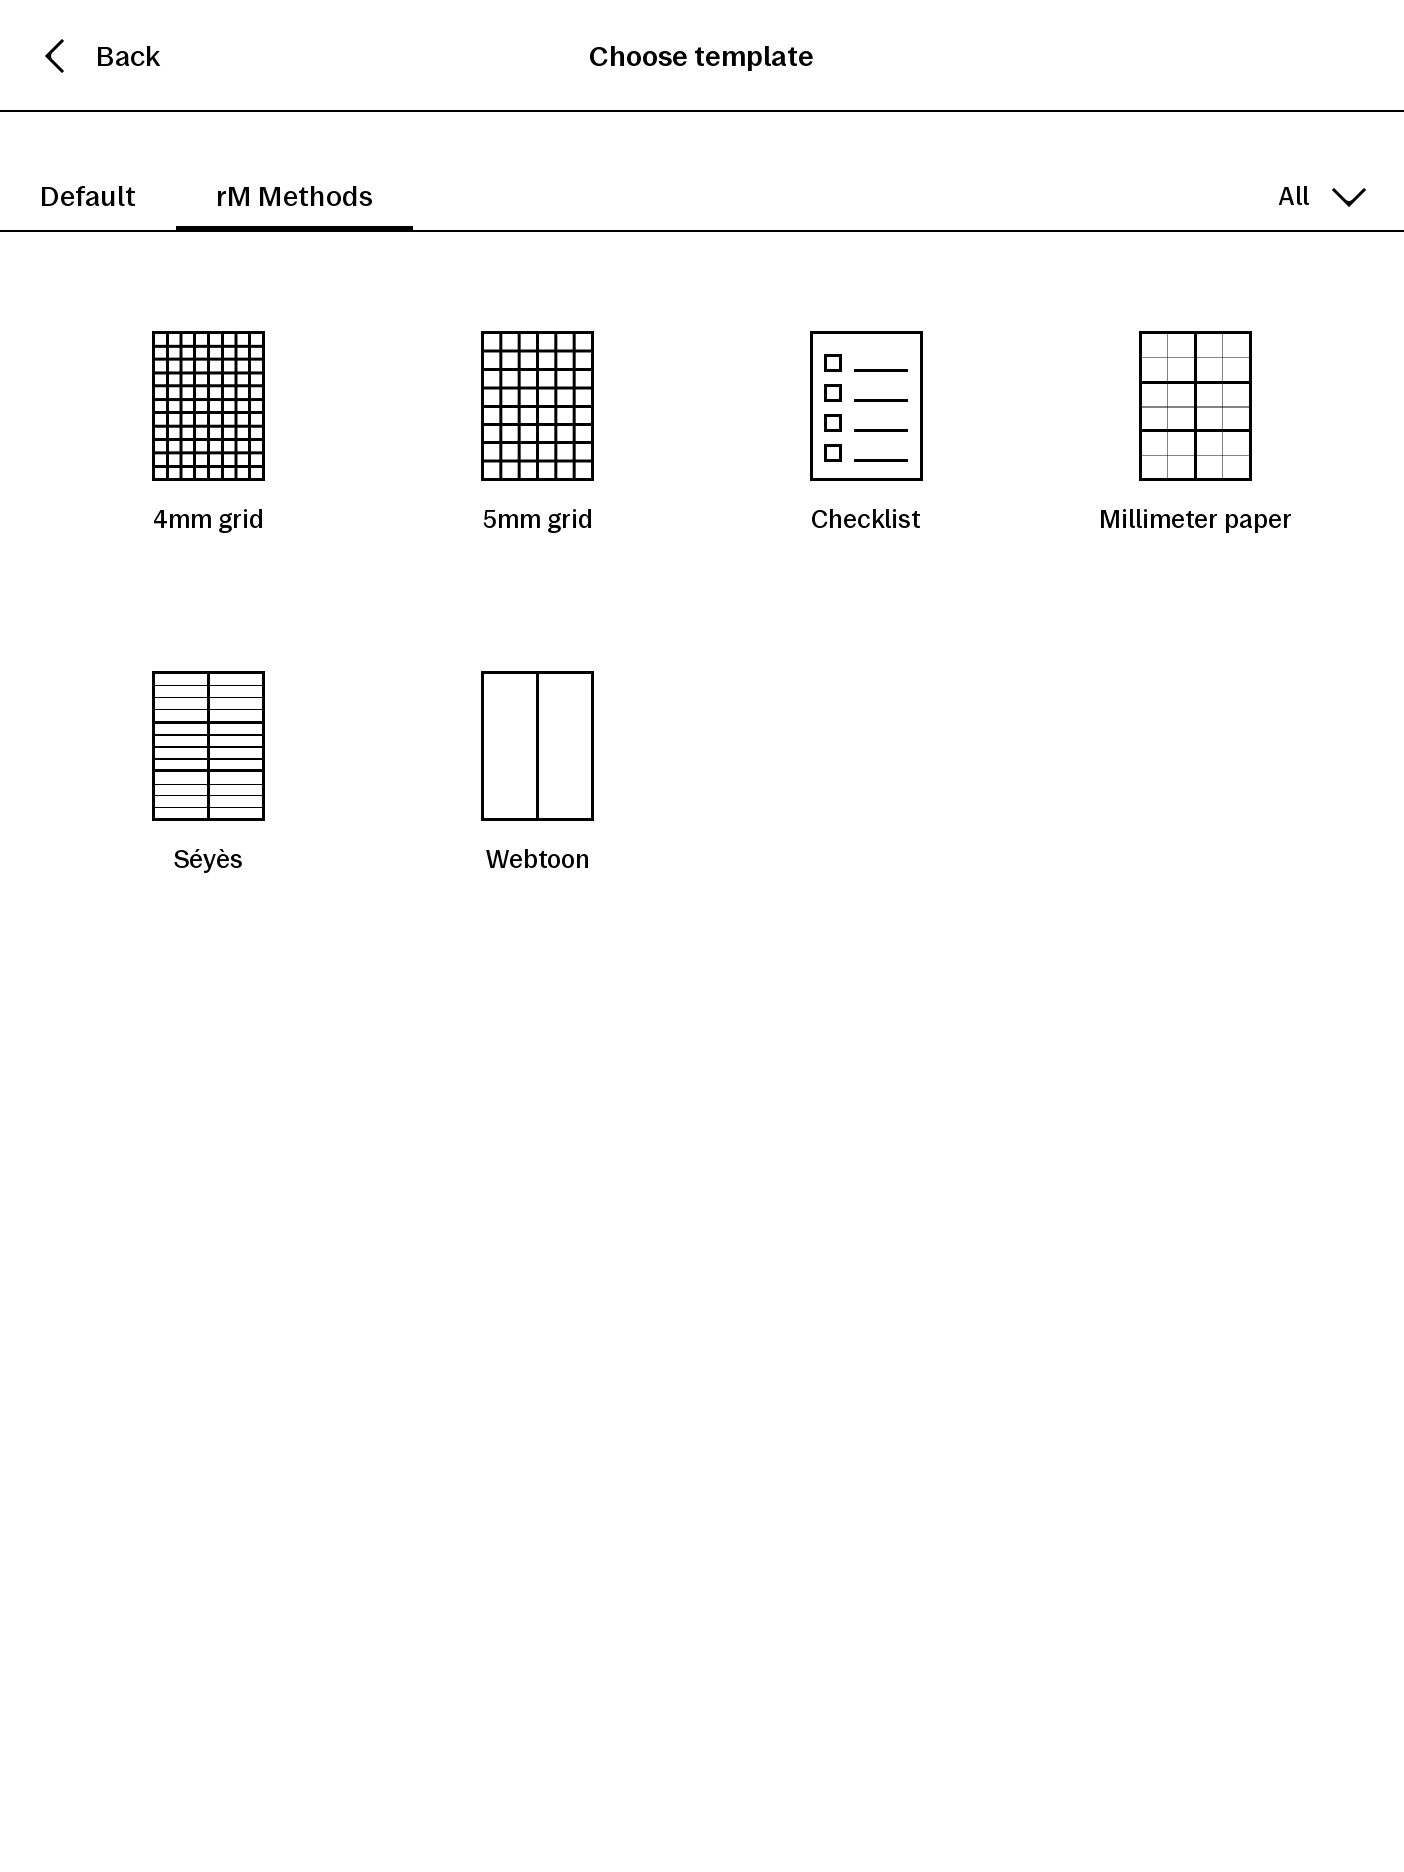
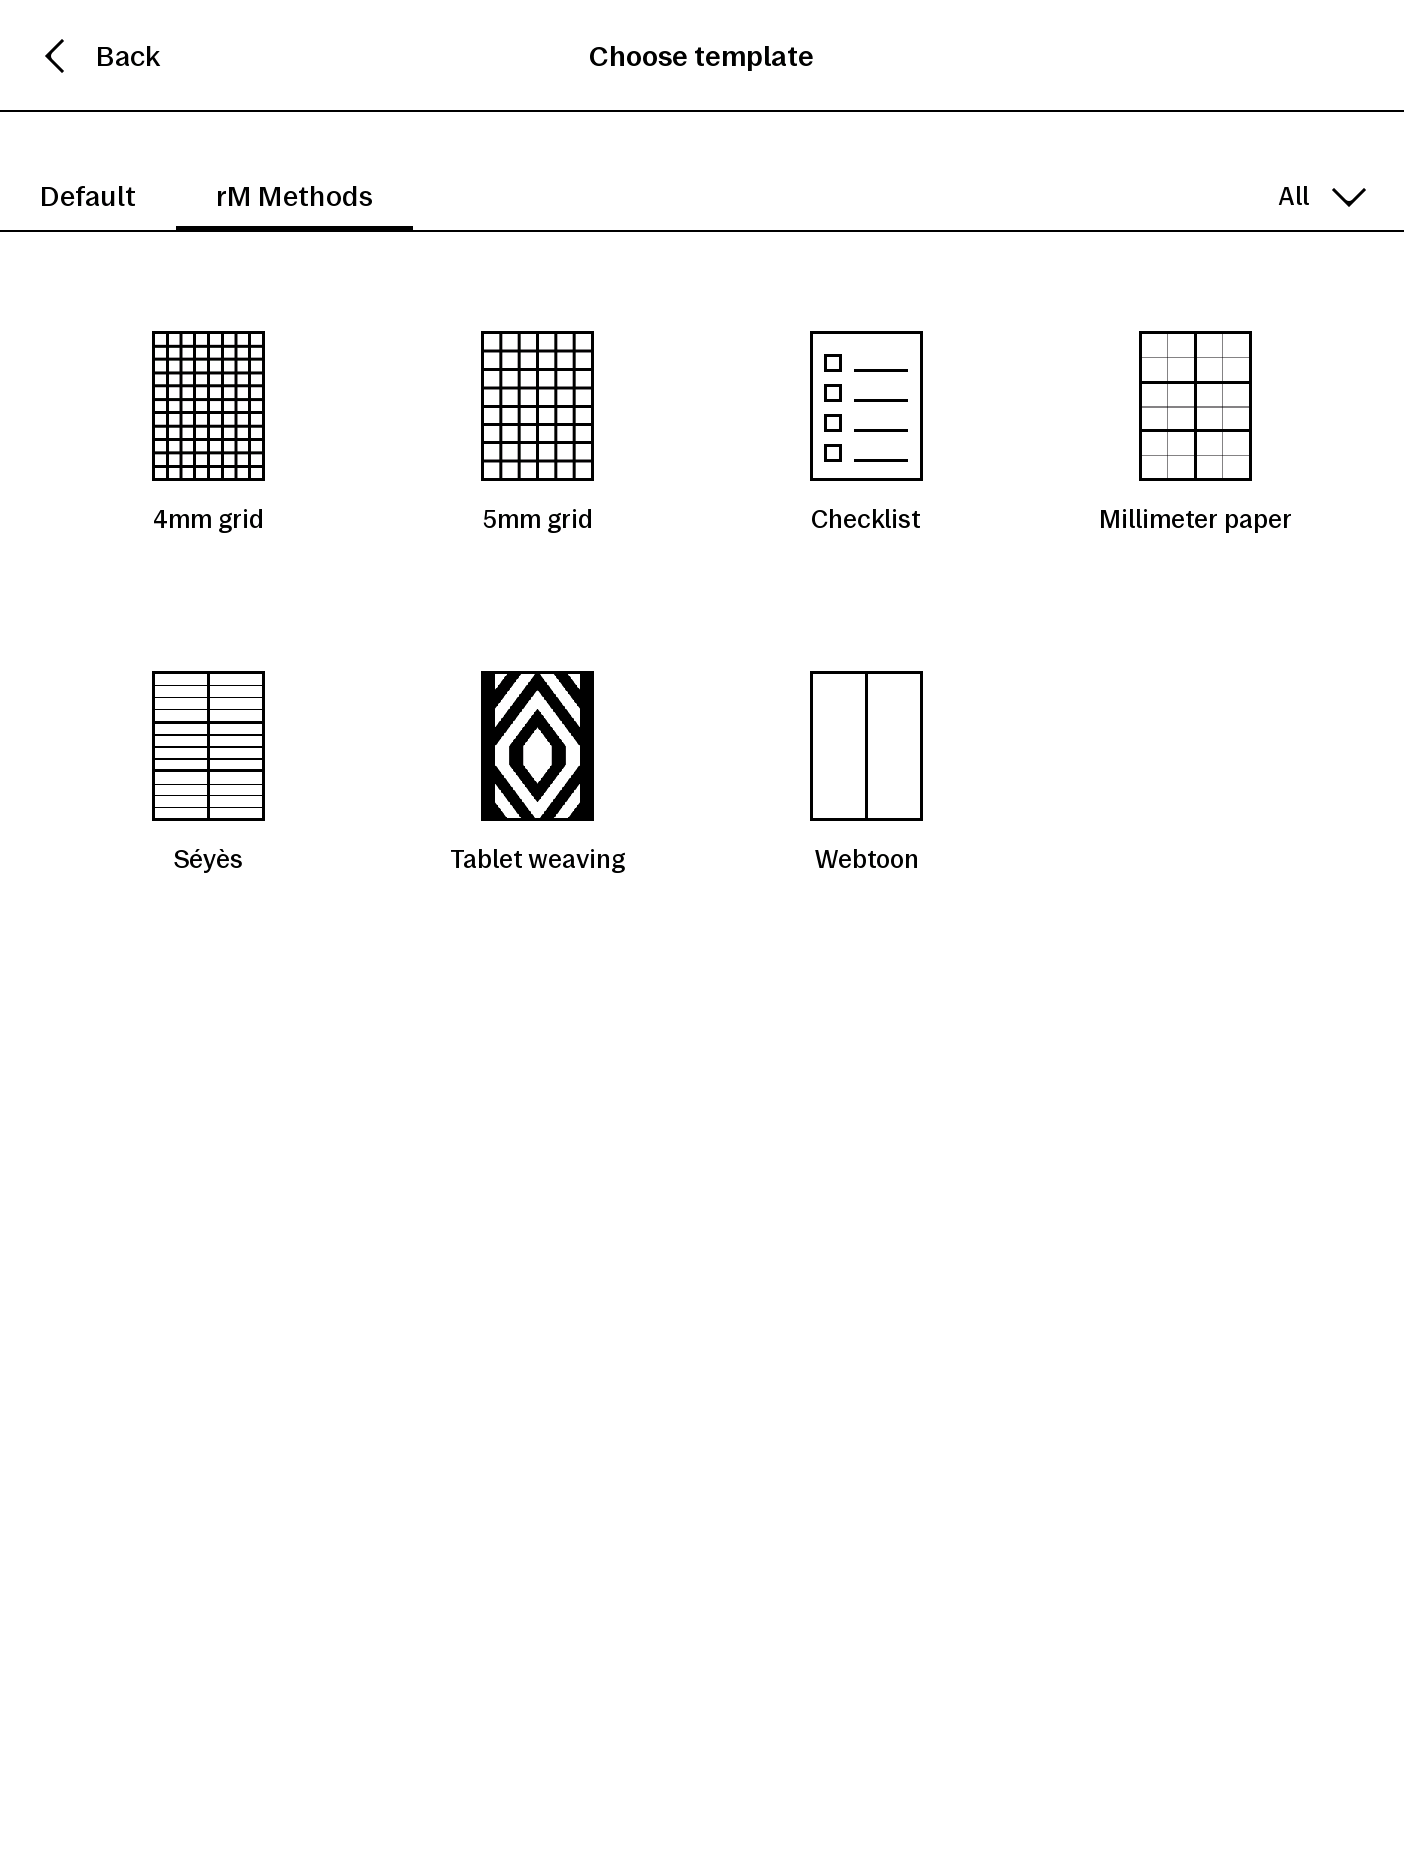
Tablet weaving template

Changed region(s): [[0.3369, 0.3408, 0.4288, 0.4647], [0.5819, 0.4338, 0.6432, 0.4647]]

diff --git a/README.md b/README.md
@@ -55,6 +55,18 @@ This is a personal template I use for sketching my scrollable comics. It simply 
 
 <img src="_img/webtoon.png" alt="Webtoon template preview" width="600"/>
 </details>
+
+**<details><summary>Tablet weaving</summary>**
+Another highly specialized template, this one is for helping me draft tablet weaving designs. The left section is for showing card turns, and the right to preview the expected result. The amount of columns on the left side and the right side is the same, and the template scrolls infinitely. The grid on the right has the right proportions to imitate a tightly woven band.
+
+This template also has a lansdscape version, which has more columns, but less visible rows, so it requires more scrolling if there are a lot of turns to write down.
+
+<img src="_img/tablet_weaving.png" alt="Tablet weaving template preview" width="600"/>
+
+Example of how I use it:
+
+<img src="_img/tablet_weaving_example.png" alt="Tablet weaving template example" width="600"/>
+</details>
   
 ## Automatic installation
 
